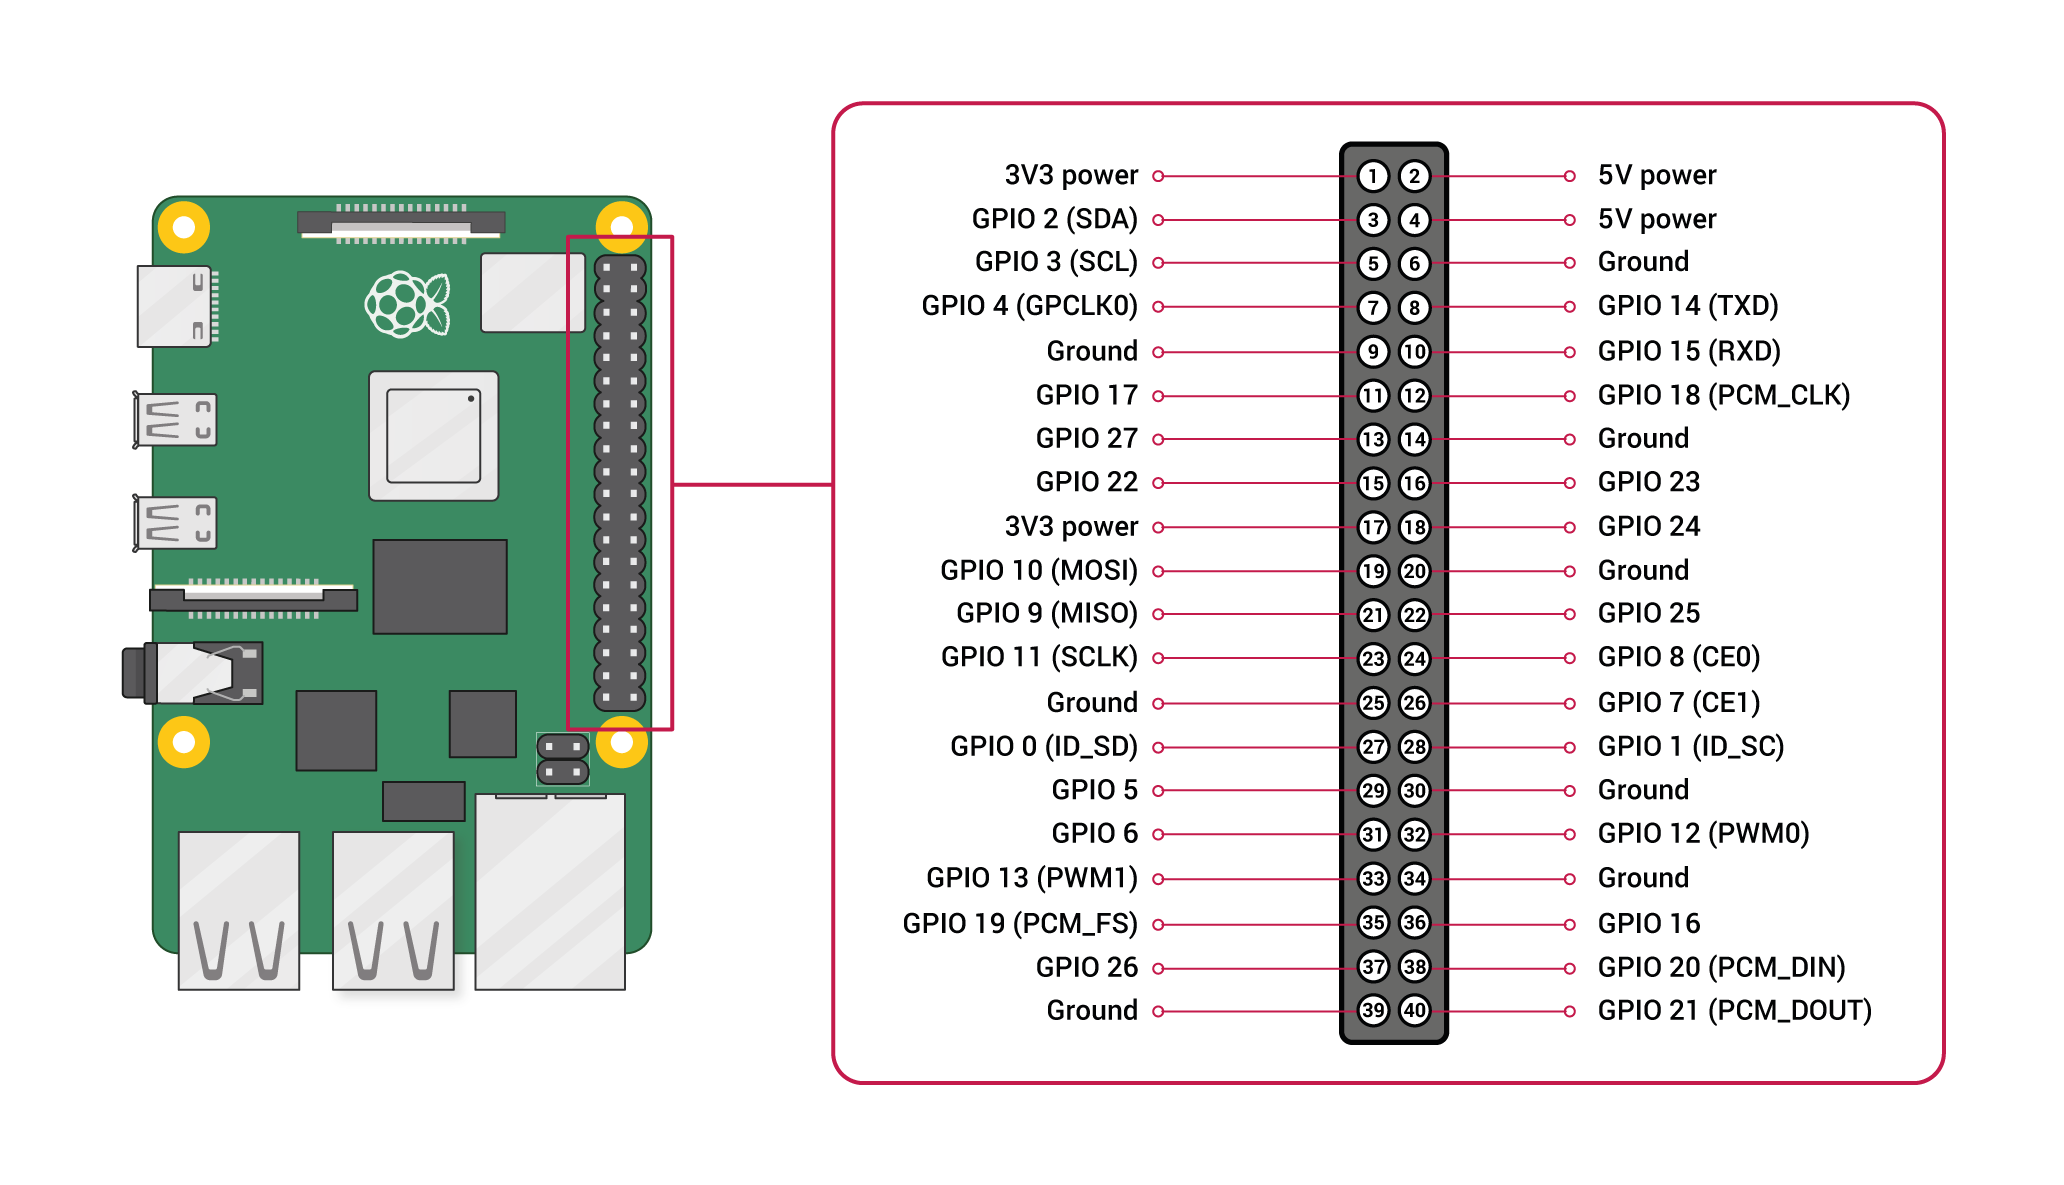
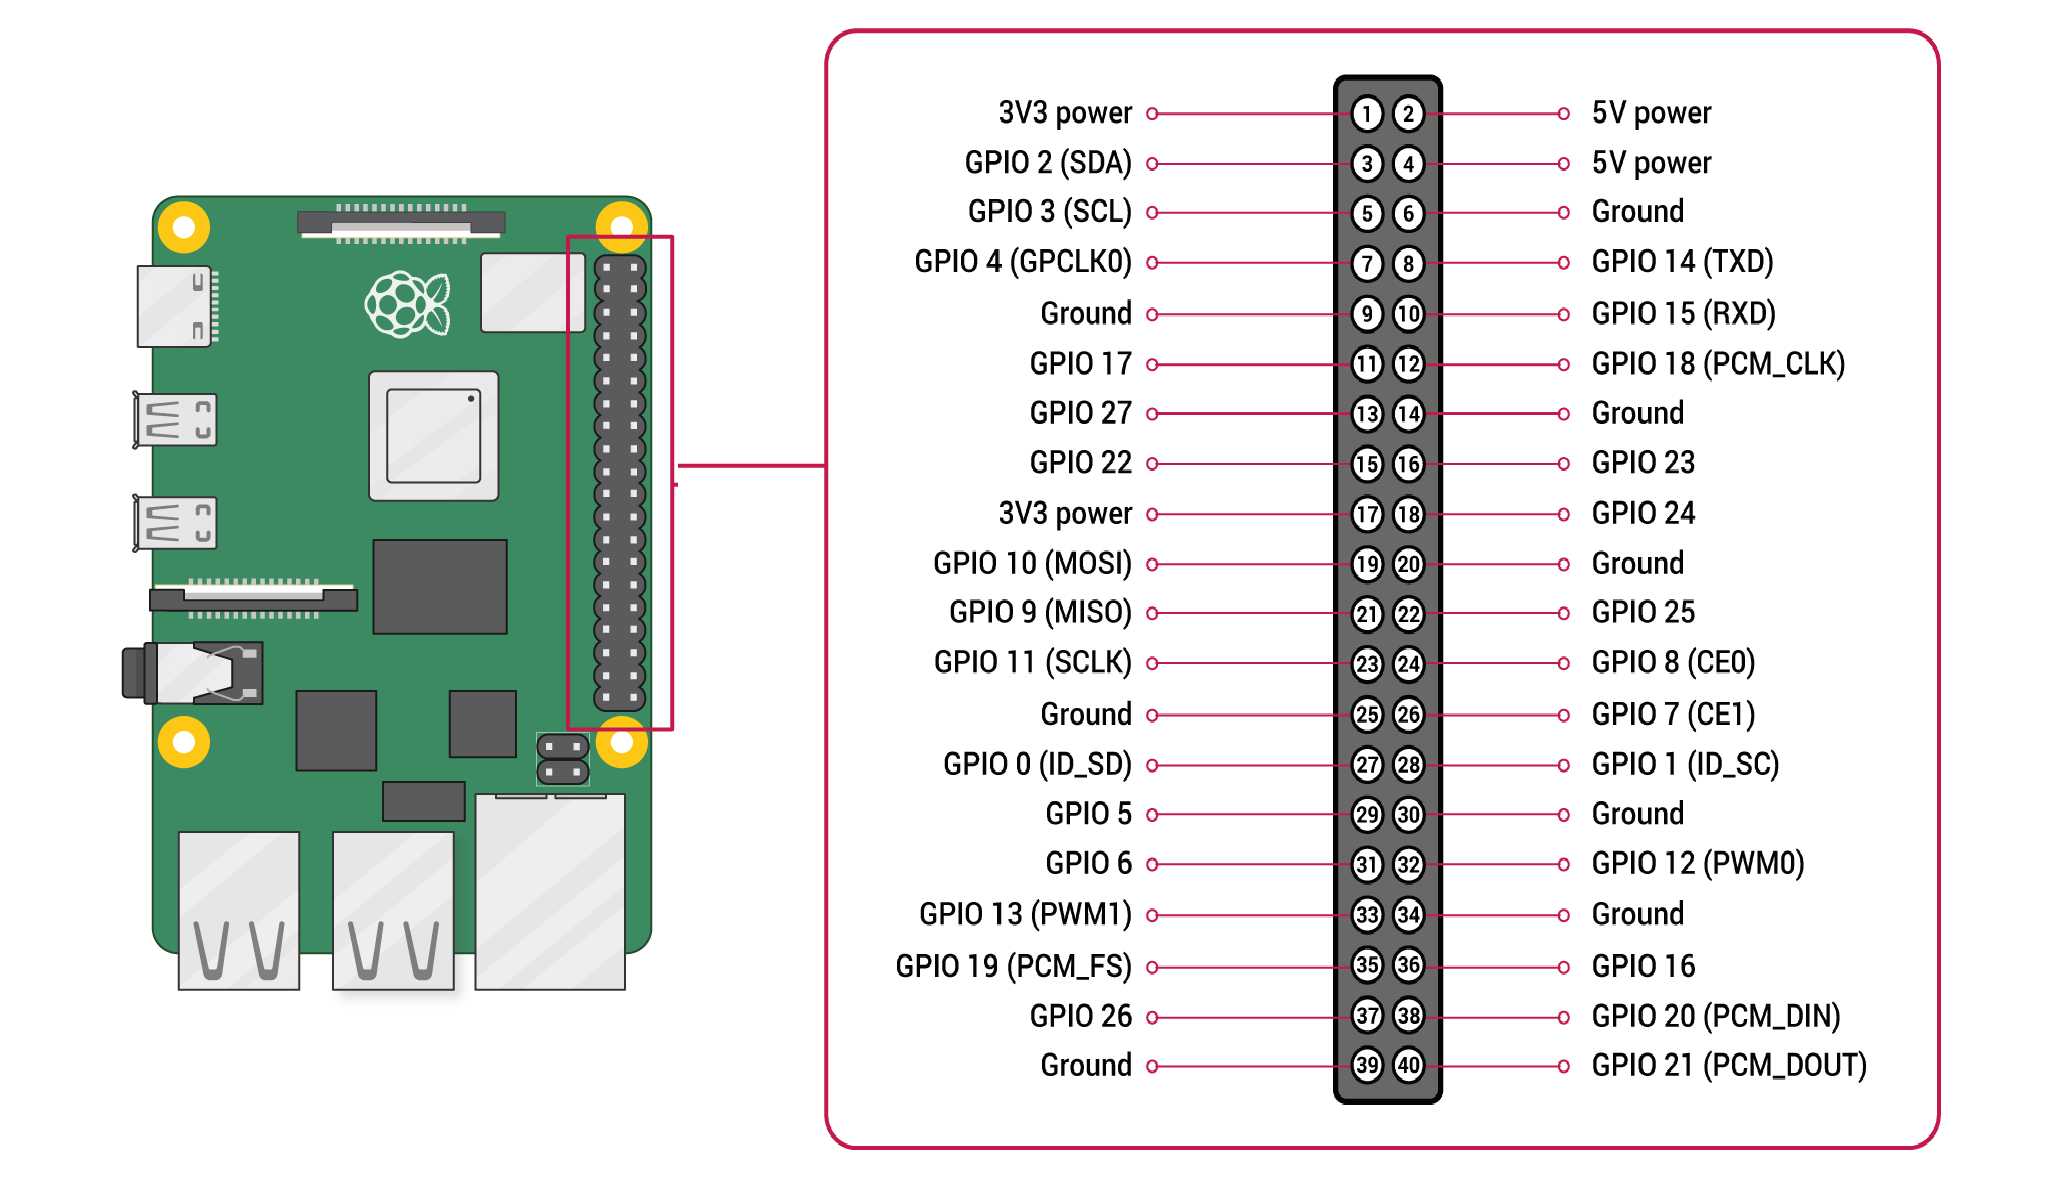
Update pin layout for improved spacing and adjust top margin

Changed region(s): [[0.4031, 0.0624, 0.9612, 0.9367], [0.4031, 0.0, 0.9302, 0.0312], [0.3411, 0.3747, 0.4031, 0.4371]]

diff --git a/data/boards.js b/data/boards.js
@@ -6,7 +6,8 @@ const boardData = {
         image: 'images/Raspberry_Pi_4B_schematics_pins.png',
         width: 2100,
         height: 1270,
-        pinLayout: { top: '12%', right: '30%', gap: '1.5% 6.9%' },
+        pinLayout: {
+            top: '9%', right: '30%', gap: '1% 6.9%' },
         layout: '2col-grid',
         pins: [
             { name: '3.3V', type: 'power', title: 'Pin 1: 3.3V Power Rail' },
